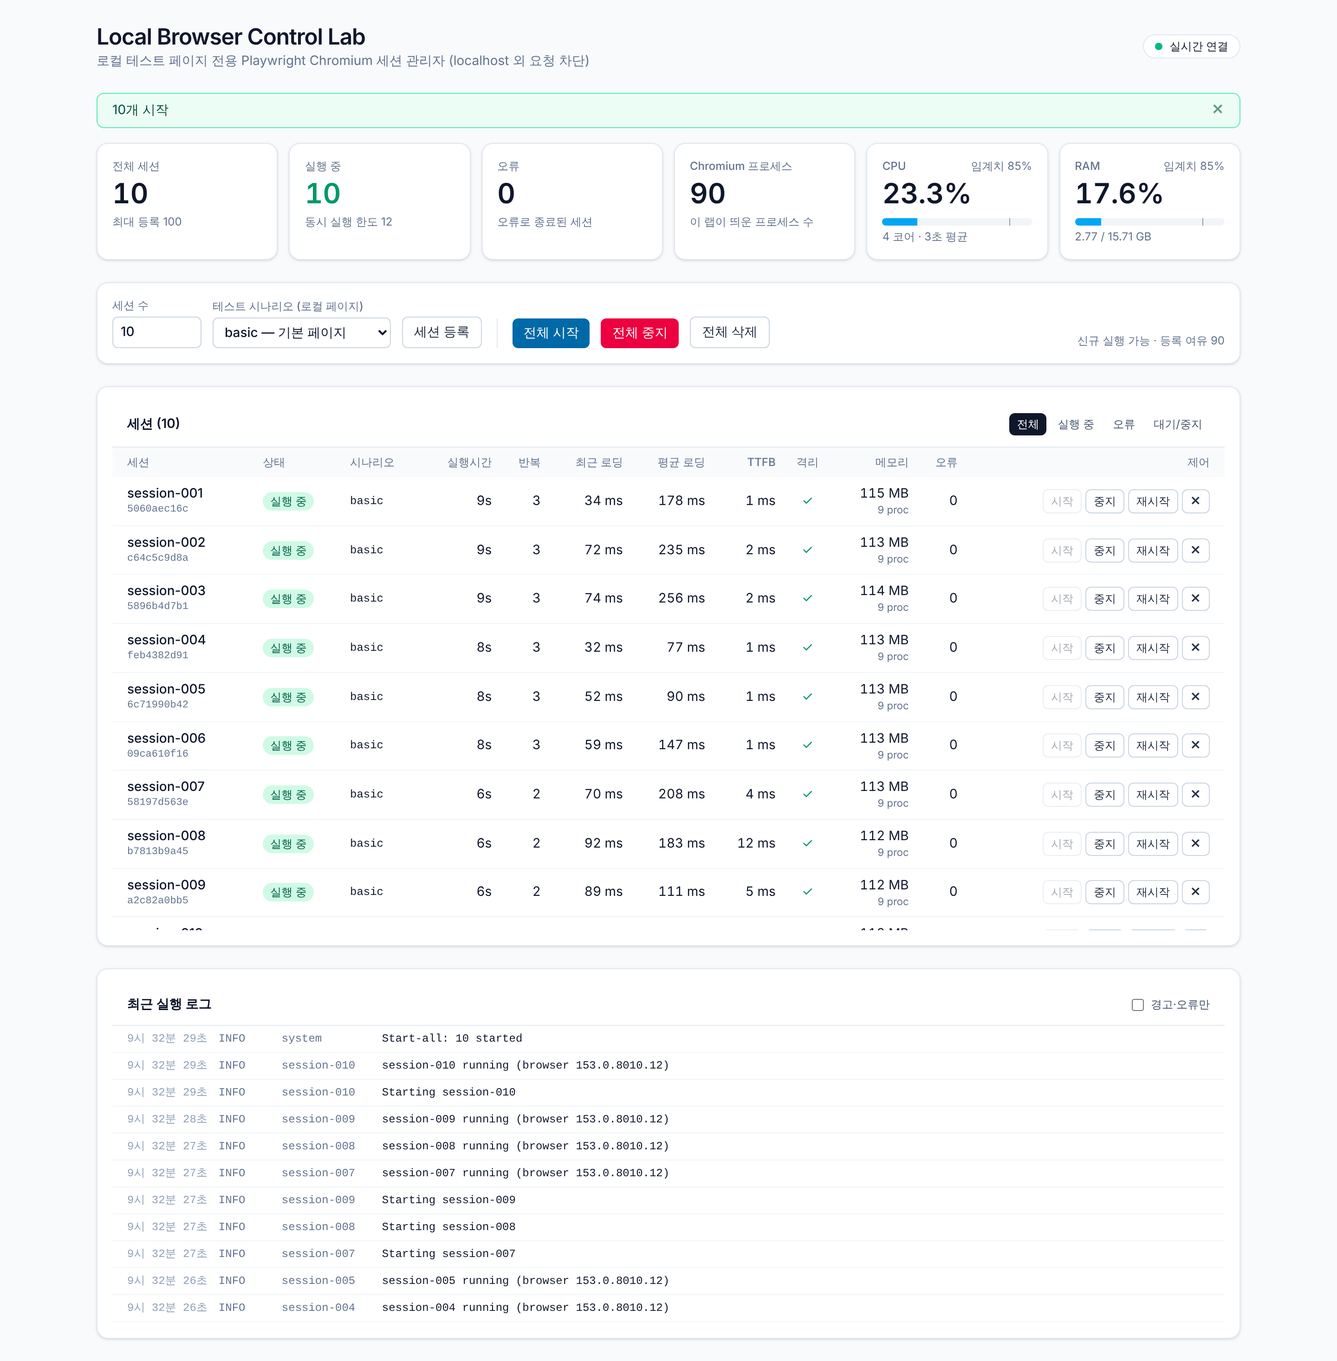
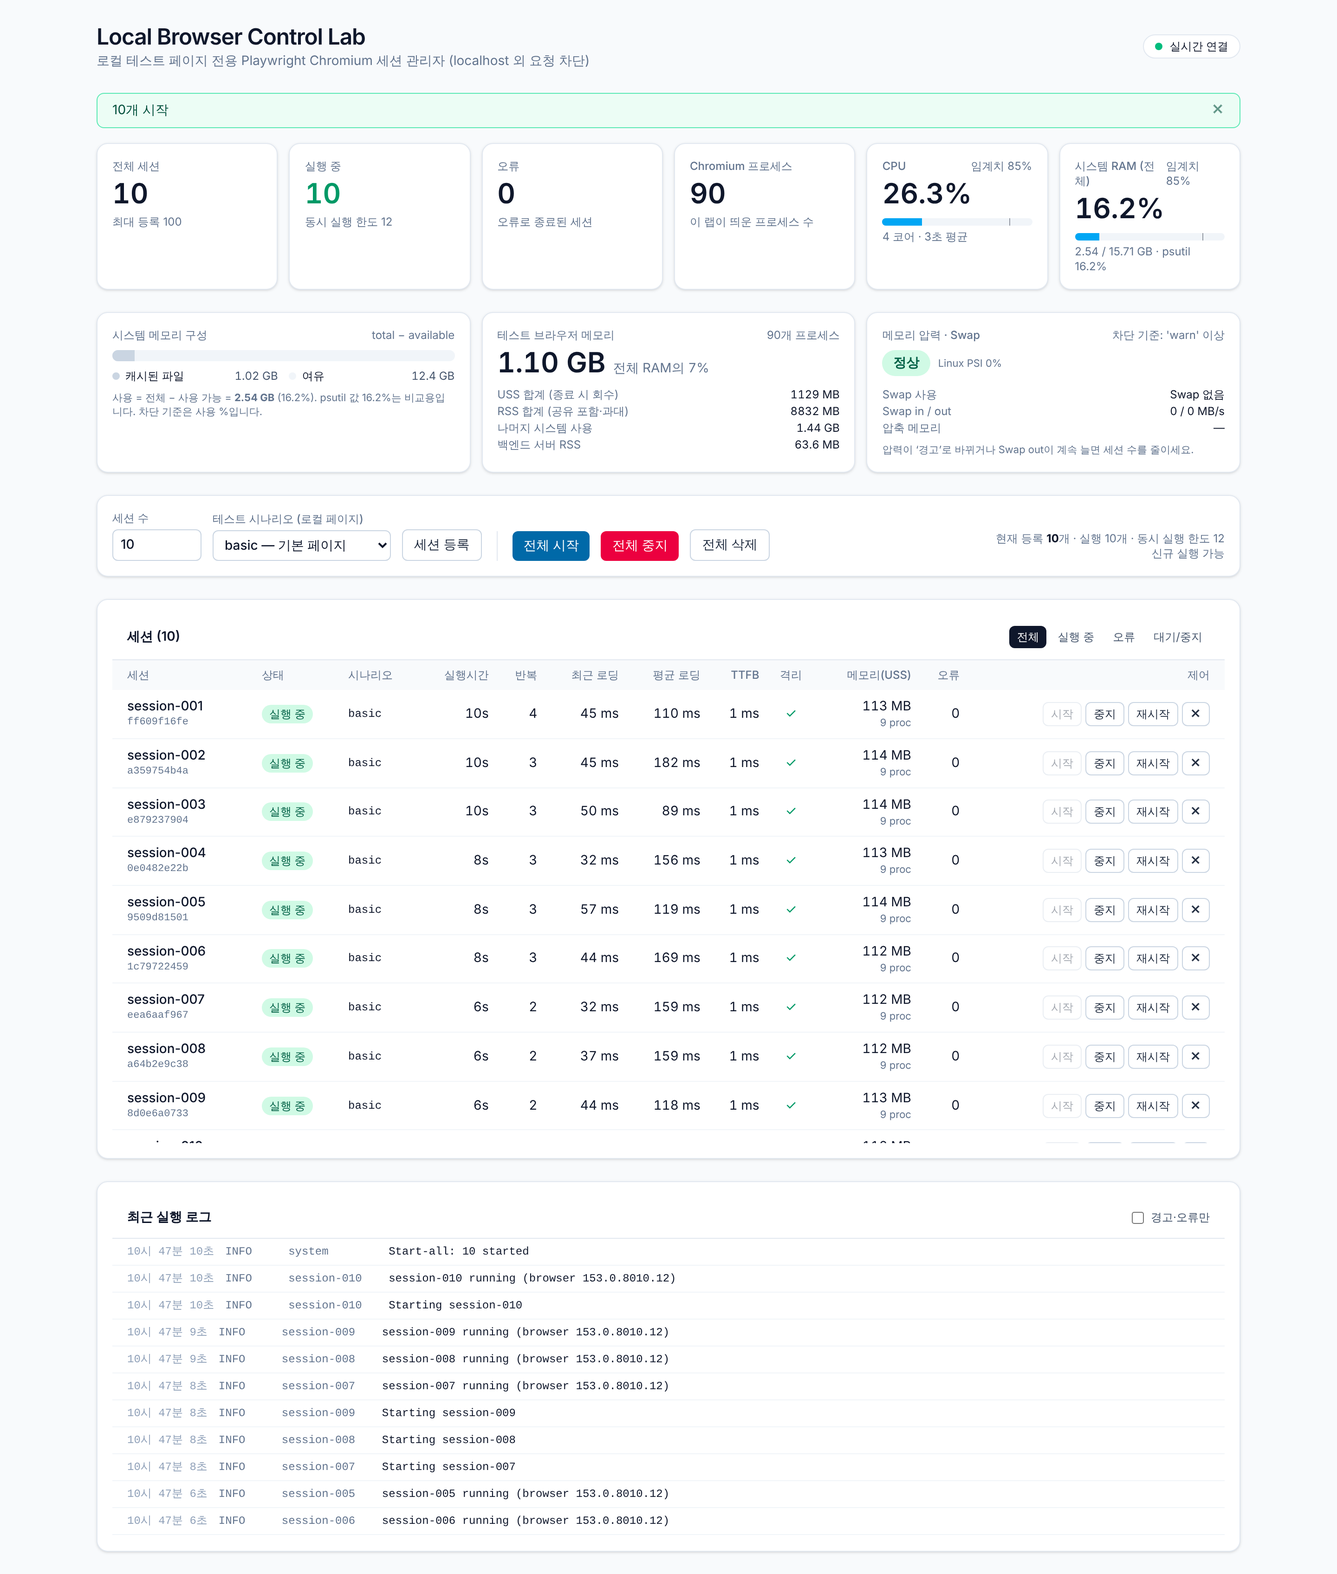
Dashboard: memory/pressure/swap panels and guarded re-registration
- Memory panel row: system memory composition (Activity Monitor style on
  macOS, with the raw psutil % for comparison), test-browser memory (USS
  total, % of RAM, RSS total, rest of system, backend RSS, fallback notice),
  and memory pressure + swap used / in-out rates / compressed memory.
- Session table shows USS with RSS in the tooltip.
- Registering while sessions exist opens an inline choice instead of
  silently accumulating: replace (exactly N), add (shows the new total and
  warns past the concurrency limit), or cancel. Header shows registered /
  running / concurrency limit.
- Stop-all toast reports the server's verified 0-process check.
- E2E covers the panels, verified stop-all, replace/add/cancel.

Claude-Session: https://claude.ai/code/session_017AZYiwmNvz5BUNQ8L3N7jK

diff --git a/browser-control-lab/frontend/components/Dashboard.tsx b/browser-control-lab/frontend/components/Dashboard.tsx
@@ -1,7 +1,7 @@
 "use client";
 
 import { useMemo, useState } from "react";
-import { api, LabState, LogEntry, Scenario, Session, SessionStatus } from "@/lib/api";
+import { api, LabState, LogEntry, PressureLevel, Scenario, Session, SessionStatus } from "@/lib/api";
 import { Connection, useLabState } from "@/lib/useLabState";
 
 const SCENARIOS: { value: Scenario; label: string }[] = [
@@ -98,6 +98,7 @@ export default function Dashboard() {
       ) : (
         <>
           <Stats state={state} />
+          <MemoryPanel state={state} />
           <Controls state={state} busy={busy} run={run} />
           <SessionTable sessions={state.sessions} busy={busy} run={run} />
           <Logs logs={state.logs} sessions={state.sessions} />
@@ -178,11 +179,129 @@ function Stats({ state }: { state: LabState }) {
       <Stat label="Chromium 프로세스" value={system.lab_process_count} sub="이 랩이 띄운 프로세스 수" />
       <Meter label="CPU" percent={system.cpu_percent} threshold={s.cpu_threshold} detail={`${system.cpu_count} 코어 · 3초 평균`} />
       <Meter
-        label="RAM"
-        percent={system.ram_percent}
+        label="시스템 RAM"
+        percent={system.memory.used_percent}
         threshold={s.ram_threshold}
-        detail={`${system.ram_used_gb} / ${system.ram_total_gb} GB`}
+        detail={`${system.memory.used_gb} / ${system.memory.total_gb} GB · psutil ${system.memory.psutil_percent}%`}
       />
+    </section>
+  );
+}
+
+const PRESSURE_STYLE: Record<PressureLevel, [string, string]> = {
+  normal: ["정상", "bg-emerald-100 text-emerald-800 dark:bg-emerald-900/50 dark:text-emerald-200"],
+  warn: ["경고", "bg-amber-100 text-amber-800 dark:bg-amber-900/50 dark:text-amber-200"],
+  critical: ["위험", "bg-rose-100 text-rose-800 dark:bg-rose-900/50 dark:text-rose-200"],
+  unknown: ["측정 불가", "bg-slate-200 text-slate-700 dark:bg-slate-800 dark:text-slate-300"],
+};
+
+const BREAKDOWN: Record<string, [string, string]> = {
+  used: ["사용", "bg-sky-500"],
+  app: ["앱", "bg-sky-500"],
+  wired: ["와이어드", "bg-violet-500"],
+  compressed: ["압축", "bg-amber-500"],
+  cached: ["캐시된 파일", "bg-slate-300 dark:bg-slate-600"],
+  free: ["여유", "bg-slate-100 dark:bg-slate-800"],
+};
+
+function fmtGb(v: number) {
+  return `${v.toFixed(v < 10 ? 2 : 1)} GB`;
+}
+
+function MemoryPanel({ state }: { state: LabState }) {
+  const m = state.system.memory;
+  const lab = state.system.lab_memory;
+  const [plabel, pstyle] = PRESSURE_STYLE[m.pressure.level] ?? PRESSURE_STYLE.unknown;
+  const parts = Object.entries(m.breakdown_gb).filter(([k]) => k in BREAKDOWN);
+  const partsTotal = Math.max(m.total_gb, parts.reduce((a, [, v]) => a + v, 0));
+  const otherGb = Math.max(0, m.used_gb - lab.uss_mb / 1024);
+  const isMac = m.method.startsWith("vm_stat");
+  return (
+    <section className="mb-6 grid gap-3 lg:grid-cols-3">
+      <Card>
+        <div className="flex items-baseline justify-between">
+          <h3 className="text-xs font-medium text-slate-500 dark:text-slate-400">시스템 메모리 구성</h3>
+          <span className="text-xs text-slate-500 dark:text-slate-400" title={m.method}>
+            {isMac ? "Activity Monitor 방식" : "total − available"}
+          </span>
+        </div>
+        <div className="mt-2 flex h-3 overflow-hidden rounded-full bg-slate-100 dark:bg-slate-800" aria-label="메모리 구성 막대">
+          {parts.map(([k, v]) => (
+            <div key={k} className={BREAKDOWN[k][1]} style={{ width: `${(100 * v) / partsTotal}%` }} title={`${BREAKDOWN[k][0]} ${fmtGb(v)}`} />
+          ))}
+        </div>
+        <ul className="mt-2 grid grid-cols-2 gap-x-3 gap-y-0.5 text-xs">
+          {parts.map(([k, v]) => (
+            <li key={k} className="flex items-center justify-between gap-2">
+              <span className="flex items-center gap-1.5">
+                <i className={`inline-block h-2 w-2 rounded-sm ${BREAKDOWN[k][1]}`} />
+                {BREAKDOWN[k][0]}
+              </span>
+              <span className="tabular-nums text-slate-600 dark:text-slate-300">{fmtGb(v)}</span>
+            </li>
+          ))}
+        </ul>
+        <p className="mt-2 text-[11px] leading-snug text-slate-500 dark:text-slate-400">
+          사용 = {isMac ? "앱 + 와이어드 + 압축" : "전체 − 사용 가능"} = <b>{fmtGb(m.used_gb)}</b> ({m.used_percent}%). psutil 값 {m.psutil_percent}%는
+          {isMac ? " 캐시 일부를 사용으로 계산해 더 높게 나옵니다." : " 비교용입니다."} 차단 기준은 사용 %입니다.
+        </p>
+      </Card>
+
+      <Card>
+        <div className="flex items-baseline justify-between">
+          <h3 className="text-xs font-medium text-slate-500 dark:text-slate-400">테스트 브라우저 메모리</h3>
+          <span className="text-xs text-slate-500 dark:text-slate-400">{state.system.lab_process_count}개 프로세스</span>
+        </div>
+        <div className="mt-1 text-3xl font-semibold tabular-nums">
+          {lab.uss_mb >= 1024 ? `${(lab.uss_mb / 1024).toFixed(2)} GB` : `${Math.round(lab.uss_mb)} MB`}
+          <span className="ml-2 text-sm font-normal text-slate-500">전체 RAM의 {lab.percent_of_total}%</span>
+        </div>
+        <dl className="mt-2 grid grid-cols-2 gap-x-3 gap-y-0.5 text-xs">
+          <dt className="text-slate-500">USS 합계 (종료 시 회수)</dt>
+          <dd className="text-right tabular-nums">{Math.round(lab.uss_mb)} MB</dd>
+          <dt className="text-slate-500" title="공유 라이브러리를 프로세스마다 중복 계산">RSS 합계 (공유 포함·과대)</dt>
+          <dd className="text-right tabular-nums">{Math.round(lab.rss_mb)} MB</dd>
+          <dt className="text-slate-500">나머지 시스템 사용</dt>
+          <dd className="text-right tabular-nums">{fmtGb(otherGb)}</dd>
+          <dt className="text-slate-500">백엔드 서버 RSS</dt>
+          <dd className="text-right tabular-nums">{lab.backend_rss_mb ?? "—"} MB</dd>
+        </dl>
+        {lab.method && lab.method !== "uss" && (
+          <p className="mt-2 text-[11px] text-amber-700 dark:text-amber-400">
+            일부 프로세스의 USS를 읽지 못해 RSS로 대체했습니다({lab.method}). 이 경우 값이 실제보다 큽니다.
+          </p>
+        )}
+      </Card>
+
+      <Card>
+        <div className="flex items-baseline justify-between">
+          <h3 className="text-xs font-medium text-slate-500 dark:text-slate-400">메모리 압력 · Swap</h3>
+          <span className="text-xs text-slate-500 dark:text-slate-400">
+            차단 기준: {state.summary.pressure_block_level === "off" ? "사용 안 함" : `'${state.summary.pressure_block_level}' 이상`}
+          </span>
+        </div>
+        <div className="mt-2 flex items-center gap-2">
+          <span className={`rounded-full px-3 py-1 text-sm font-semibold ${pstyle}`}>{plabel}</span>
+          <span className="text-[11px] text-slate-500" title={m.pressure.source}>
+            {m.pressure.source === "kern.memorystatus_vm_pressure_level" ? "macOS 메모리 압력" : m.pressure.source === "/proc/pressure/memory" ? `Linux PSI ${m.pressure.value ?? 0}%` : m.pressure.source}
+          </span>
+        </div>
+        <dl className="mt-3 grid grid-cols-2 gap-x-3 gap-y-0.5 text-xs">
+          <dt className="text-slate-500">Swap 사용</dt>
+          <dd className="text-right tabular-nums">
+            {m.swap.total_gb ? `${fmtGb(m.swap.used_gb)} / ${fmtGb(m.swap.total_gb)}` : "Swap 없음"}
+          </dd>
+          <dt className="text-slate-500">Swap in / out</dt>
+          <dd className={`text-right tabular-nums ${m.swap.out_mb_s > 1 ? "text-amber-600 dark:text-amber-400" : ""}`}>
+            {m.swap.in_mb_s} / {m.swap.out_mb_s} MB/s
+          </dd>
+          <dt className="text-slate-500">압축 메모리</dt>
+          <dd className="text-right tabular-nums">{m.breakdown_gb.compressed != null ? fmtGb(m.breakdown_gb.compressed) : "—"}</dd>
+        </dl>
+        <p className="mt-2 text-[11px] leading-snug text-slate-500 dark:text-slate-400">
+          압력이 &lsquo;경고&rsquo;로 바뀌거나 Swap out이 계속 늘면 세션 수를 줄이세요.
+        </p>
+      </Card>
     </section>
   );
 }
@@ -190,10 +309,21 @@ function Stats({ state }: { state: LabState }) {
 type Runner = (label: string, fn: () => Promise<unknown>, okText?: (r: any) => string) => Promise<void>;
 
 function Controls({ state, busy, run }: { state: LabState; busy: string | null; run: Runner }) {
-  const [count, setCount] = useState(10);
+  const [count, setCount] = useState(6);
   const [scenario, setScenario] = useState<Scenario>("basic");
-  const remaining = state.summary.max_sessions - state.summary.total;
+  const [confirming, setConfirming] = useState(false);
+  const existing = state.summary.total;
+  const running = state.summary.running + state.summary.starting;
+  const remaining = state.summary.max_sessions - existing;
   const anyActive = state.sessions.some((s) => ["starting", "running", "stopping"].includes(s.status));
+  const limit = state.summary.max_concurrent;
+
+  const register = (replace: boolean) =>
+    run(
+      "create",
+      () => api("/api/sessions", { method: "POST", body: JSON.stringify({ count, scenario, replace }) }),
+      (r) => (replace ? `기존 ${existing}개를 삭제하고 ${r.length}개로 교체했습니다` : `${r.length}개 추가 등록 (총 ${existing + r.length}개)`),
+    ).then(() => setConfirming(false));
 
   return (
     <Card className="mb-6">
@@ -203,9 +333,12 @@ function Controls({ state, busy, run }: { state: LabState; busy: string | null; 
           <input
             type="number"
             min={1}
-            max={Math.max(1, remaining)}
+            max={100}
             value={count}
-            onChange={(e) => setCount(Math.max(1, Math.min(100, Number(e.target.value) || 1)))}
+            onChange={(e) => {
+              setCount(Math.max(1, Math.min(100, Number(e.target.value) || 1)));
+              setConfirming(false);
+            }}
             className="w-24 rounded-md border border-slate-300 bg-white px-2 py-1.5 text-sm text-slate-900 dark:border-slate-700 dark:bg-slate-950 dark:text-slate-100"
           />
         </label>
@@ -223,12 +356,7 @@ function Controls({ state, busy, run }: { state: LabState; busy: string | null; 
             ))}
           </select>
         </label>
-        <Btn
-          disabled={!!busy || remaining < 1}
-          onClick={() =>
-            run("create", () => api("/api/sessions", { method: "POST", body: JSON.stringify({ count, scenario }) }), (r) => `${r.length}개 세션 등록`)
-          }
-        >
+        <Btn disabled={!!busy || confirming} onClick={() => (existing === 0 ? register(false) : setConfirming(true))}>
           세션 등록
         </Btn>
         <div className="mx-1 hidden h-8 w-px bg-slate-200 sm:block dark:bg-slate-800" />
@@ -250,7 +378,9 @@ function Controls({ state, busy, run }: { state: LabState; busy: string | null; 
           disabled={!!busy || !anyActive}
           onClick={() =>
             run("stop-all", () => api("/api/sessions/stop-all", { method: "POST" }), (r) =>
-              `${r.stopped.length}개 중지 · 남은 프로세스 강제종료 ${r.leftover_processes_killed}개`,
+              r.verified_clean
+                ? `${r.stopped.length}개 중지 · 브라우저 프로세스 0개 확인`
+                : `${r.stopped.length}개 중지 · 경고: 프로세스 ${r.remaining_processes}개가 남아 있습니다`,
             )
           }
         >
@@ -266,16 +396,50 @@ function Controls({ state, busy, run }: { state: LabState; busy: string | null; 
         >
           전체 삭제
         </Btn>
-        <div className="ml-auto text-xs text-slate-500 dark:text-slate-400">
+        <div className="ml-auto text-right text-xs text-slate-500 dark:text-slate-400">
+          <div>
+            현재 등록 <b className="text-slate-900 dark:text-slate-100">{existing}</b>개 · 실행 {running}개 · 동시 실행 한도 {limit}
+          </div>
           {state.summary.admission_blocked_reason ? (
-            <span className="font-medium text-amber-700 dark:text-amber-400">
-              신규 실행 차단: {state.summary.admission_blocked_reason}
-            </span>
+            <div className="font-medium text-amber-700 dark:text-amber-400">신규 실행 차단: {state.summary.admission_blocked_reason}</div>
           ) : (
-            <span>신규 실행 가능 · 등록 여유 {remaining}</span>
+            <div>신규 실행 가능</div>
           )}
         </div>
       </div>
+
+      {confirming && (
+        <div
+          role="alertdialog"
+          aria-label="세션 등록 방식 선택"
+          className="mt-3 rounded-lg border border-amber-300 bg-amber-50 p-3 text-sm text-amber-950 dark:border-amber-800 dark:bg-amber-950/40 dark:text-amber-100"
+        >
+          <p className="font-medium">
+            이미 {existing}개 세션이 등록되어 있습니다{running ? ` (실행 중 ${running}개)` : ""}. {count}개를 어떻게 등록할까요?
+          </p>
+          <ul className="mt-1 list-disc pl-5 text-xs">
+            <li>
+              <b>교체</b>: 기존 세션을 모두 중지·삭제하고 정확히 {count}개만 남깁니다.
+            </li>
+            <li>
+              <b>추가</b>: 기존 {existing}개에 더해 총 {existing + count}개가 됩니다.
+              {existing + count > limit && ` 동시 실행 한도(${limit})를 넘으므로 '전체 시작' 시 ${limit}개까지만 실행됩니다.`}
+              {existing + count > state.summary.max_sessions && ` 최대 등록 수(${state.summary.max_sessions})를 넘어 등록할 수 없습니다.`}
+            </li>
+          </ul>
+          <div className="mt-2 flex flex-wrap gap-2">
+            <Btn variant="primary" disabled={!!busy} onClick={() => register(true)}>
+              기존 {existing}개 교체 → {count}개
+            </Btn>
+            <Btn disabled={!!busy || count > remaining} onClick={() => register(false)}>
+              {count}개 추가 → 총 {existing + count}개
+            </Btn>
+            <Btn disabled={!!busy} onClick={() => setConfirming(false)}>
+              취소
+            </Btn>
+          </div>
+        </div>
+      )}
     </Card>
   );
 }
@@ -357,7 +521,7 @@ function SessionTable({ sessions, busy, run }: { sessions: Session[]; busy: stri
                 <th className="px-2 py-2 text-right font-medium">평균 로딩</th>
                 <th className="px-2 py-2 text-right font-medium">TTFB</th>
                 <th className="px-2 py-2 text-center font-medium">격리</th>
-                <th className="px-2 py-2 text-right font-medium">메모리</th>
+                <th className="px-2 py-2 text-right font-medium" title="USS: 세션 종료 시 회수되는 메모리">메모리(USS)</th>
                 <th className="px-2 py-2 text-right font-medium">오류</th>
                 <th className="px-4 py-2 text-right font-medium">제어</th>
               </tr>
@@ -385,7 +549,10 @@ function SessionTable({ sessions, busy, run }: { sessions: Session[]; busy: stri
                     <td className="px-2 py-2 text-center">
                       {s.isolation_ok == null ? "—" : s.isolation_ok ? <span className="text-emerald-600" title="localStorage·쿠키 격리 확인">✓</span> : <span className="text-rose-600">✗</span>}
                     </td>
-                    <td className="px-2 py-2 text-right tabular-nums">
+                    <td
+                      className="px-2 py-2 text-right tabular-nums"
+                      title={s.memory_rss_mb != null ? `USS ${s.memory_mb} MB · RSS ${s.memory_rss_mb} MB (${s.memory_method})` : undefined}
+                    >
                       {s.memory_mb == null ? "—" : `${Math.round(s.memory_mb)} MB`}
                       {s.process_count > 0 && <div className="text-[11px] text-slate-500">{s.process_count} proc</div>}
                     </td>

diff --git a/browser-control-lab/frontend/lib/api.ts b/browser-control-lab/frontend/lib/api.ts
@@ -21,7 +21,11 @@ export interface Session {
   isolation_ok: boolean | null;
   blocked_requests: number;
   last_error: string | null;
+  /** USS sum of the session's processes (memory freed when it stops) */
   memory_mb: number | null;
+  /** RSS sum (counts shared pages once per process, so it overstates) */
+  memory_rss_mb: number | null;
+  memory_method: string | null;
   process_count: number;
 }
 
@@ -47,6 +51,7 @@ export interface LabState {
     max_concurrent: number;
     cpu_threshold: number;
     ram_threshold: number;
+    pressure_block_level: string;
     admission_blocked_reason: string | null;
   };
   system: {
@@ -56,9 +61,33 @@ export interface LabState {
     ram_total_gb: number;
     cpu_count: number;
     lab_process_count: number;
+    memory: SystemMemory;
+    lab_memory: {
+      uss_mb: number;
+      rss_mb: number;
+      percent_of_total: number;
+      method: string | null;
+      backend_rss_mb: number | null;
+    };
   };
   sessions: Session[];
   logs: LogEntry[];
+}
+
+export type PressureLevel = "normal" | "warn" | "critical" | "unknown";
+
+export interface SystemMemory {
+  total_gb: number;
+  used_gb: number;
+  available_gb: number;
+  /** OS-appropriate used % (macOS: App + Wired + Compressed, like Activity Monitor) */
+  used_percent: number;
+  /** raw psutil virtual_memory().percent, for comparison */
+  psutil_percent: number;
+  method: string;
+  breakdown_gb: Record<string, number>;
+  pressure: { level: PressureLevel; source?: string; value?: number | null };
+  swap: { total_gb: number; used_gb: number; percent: number; in_mb_s: number; out_mb_s: number };
 }
 
 export class ApiError extends Error {}

diff --git a/browser-control-lab/scripts/e2e_dashboard.py b/browser-control-lab/scripts/e2e_dashboard.py
@@ -58,9 +58,13 @@ def main() -> int:
         expect(page.get_by_text("실시간 연결")).to_be_visible(timeout=15000)
         print("✓ dashboard connected over WebSocket")
 
+        expect(page.get_by_text("테스트 브라우저 메모리")).to_be_visible()
+        expect(page.get_by_text("메모리 압력 · Swap")).to_be_visible()
+        print("✓ memory panels visible (system / test browsers / pressure+swap)")
+
         page.get_by_label("세션 수").fill(str(n))
-        page.get_by_role("button", name="세션 등록").click()
-        expect(page.get_by_text(f"{n}개 세션 등록")).to_be_visible()
+        page.get_by_role("button", name="세션 등록").click()  # empty lab: registers directly
+        expect(page.get_by_text(f"{n}개 추가 등록 (총 {n}개)")).to_be_visible()
         print(f"✓ registered {n} sessions from the UI")
 
         page.get_by_role("button", name="전체 시작").click()
@@ -89,10 +93,33 @@ def main() -> int:
         page.get_by_role("button", name="전체 중지").click()
         st = wait(lambda s: s["summary"]["running"] == 0 and s["system"]["lab_process_count"] == 0,
                   msg="stop-all + cleanup")
-        expect(page.get_by_text("개 중지")).to_be_visible()
-        print(f"✓ stop-all: 0 running, {st['system']['lab_process_count']} Chromium processes remain")
+        expect(page.get_by_text("브라우저 프로세스 0개 확인")).to_be_visible()
+        with urllib.request.urlopen(f"{API}/api/processes") as r:
+            procs = json.load(r)
+        assert procs["count"] == 0, procs
+        print(f"✓ stop-all: 0 running, verified 0 browser processes (marker + {procs['tracked_pids']} tracked PIDs)")
         time.sleep(1.5)
         page.screenshot(path=str(shots / "dashboard-stopped.png"), full_page=True)
+
+        # Registering again must not silently accumulate: a choice dialog appears.
+        page.get_by_label("세션 수").fill("3")
+        page.get_by_role("button", name="세션 등록").click()
+        dialog = page.get_by_role("alertdialog")
+        expect(dialog).to_contain_text(f"이미 {n}개 세션이 등록되어 있습니다")
+        dialog.get_by_role("button", name=f"기존 {n}개 교체 → 3개").click()
+        wait(lambda s: s["summary"]["total"] == 3, msg="replace")
+        print(f"✓ re-register shows a choice; '교체' left exactly 3 sessions (not {n + 3})")
+        page.get_by_label("세션 수").fill("2")
+        page.get_by_role("button", name="세션 등록").click()
+        page.get_by_role("alertdialog").get_by_role("button", name="2개 추가 → 총 5개").click()
+        wait(lambda s: s["summary"]["total"] == 5, msg="add")
+        print("✓ '추가' explicitly accumulated to 5")
+        page.get_by_label("세션 수").fill("1")
+        page.get_by_role("button", name="세션 등록").click()
+        page.get_by_role("alertdialog").get_by_role("button", name="취소").click()
+        time.sleep(1)
+        assert state()["summary"]["total"] == 5
+        print("✓ '취소' registered nothing")
 
         page.get_by_role("button", name="전체 삭제").click()
         wait(lambda s: s["summary"]["total"] == 0, msg="delete-all")
